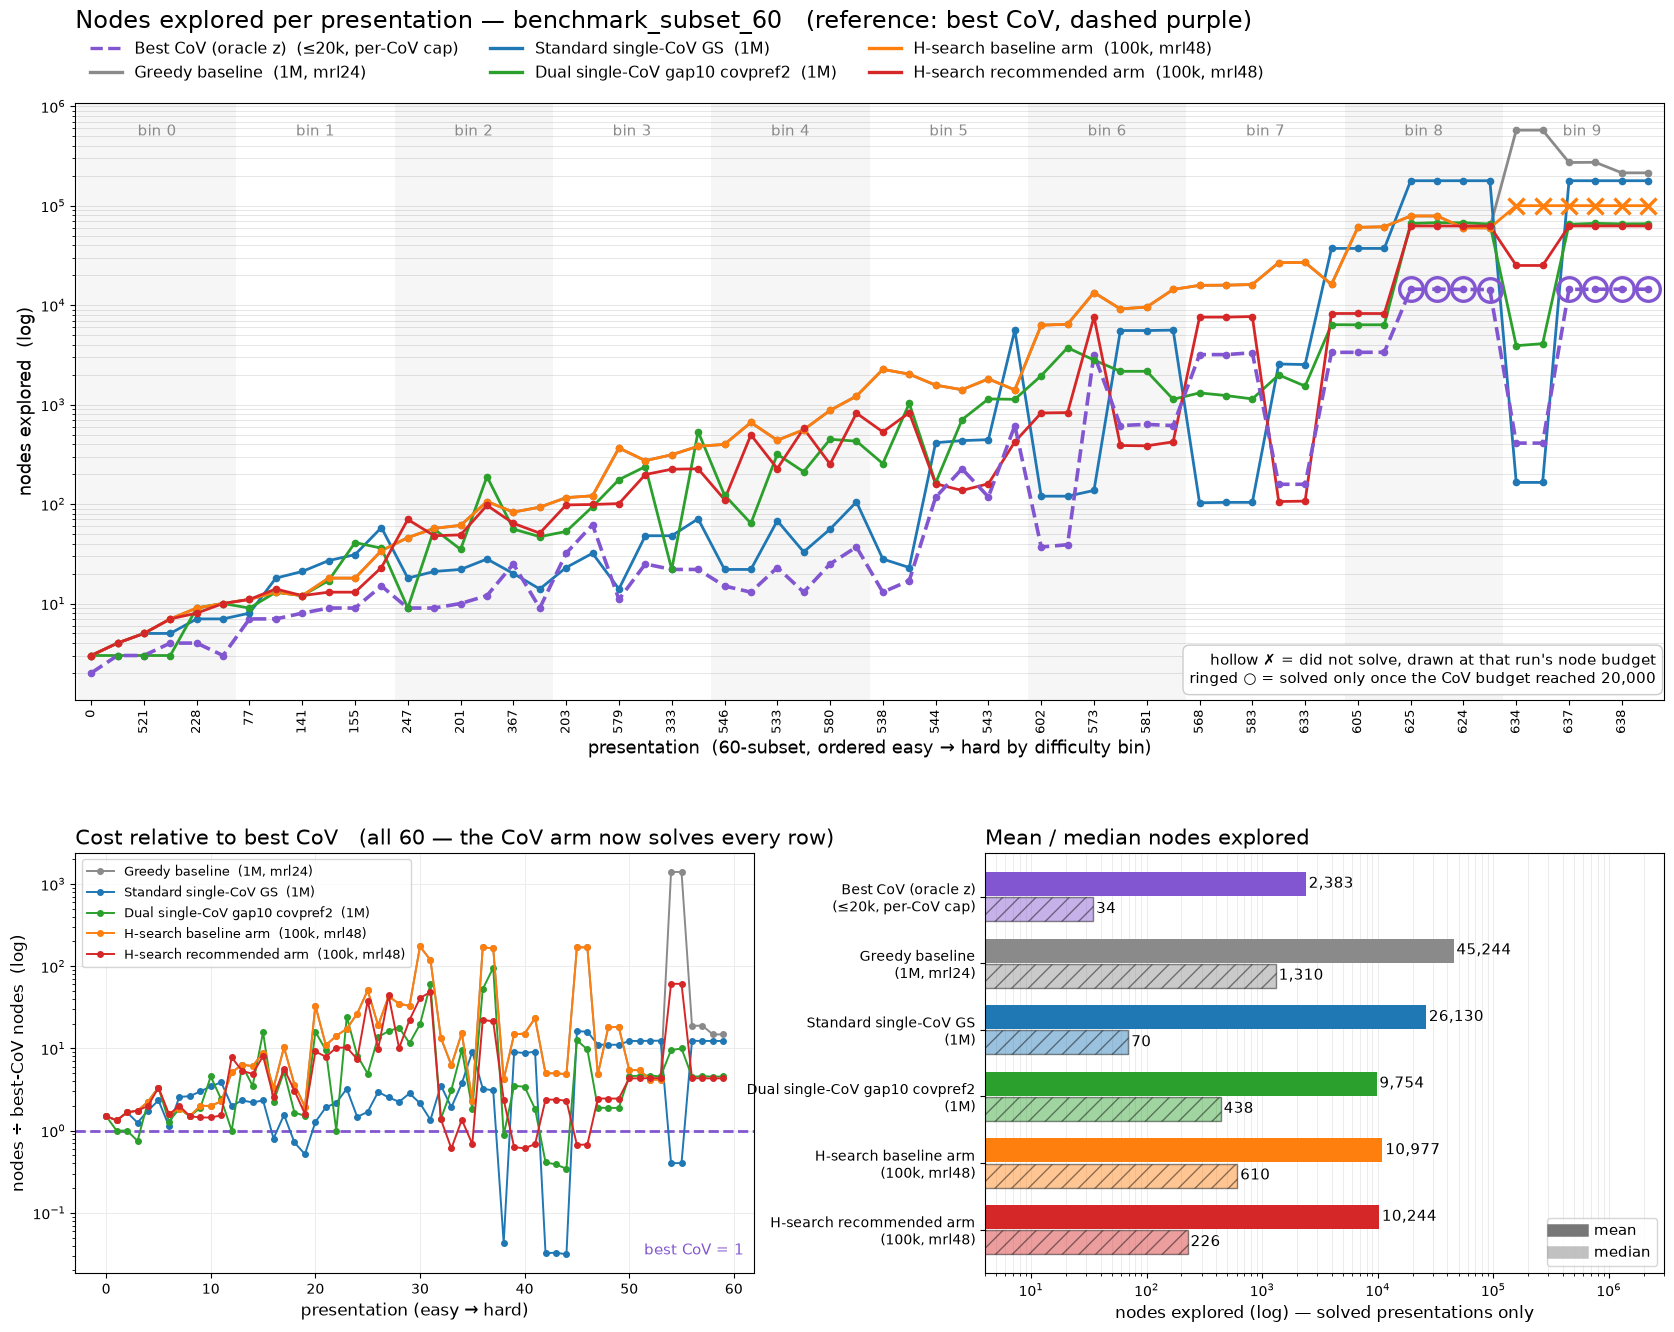
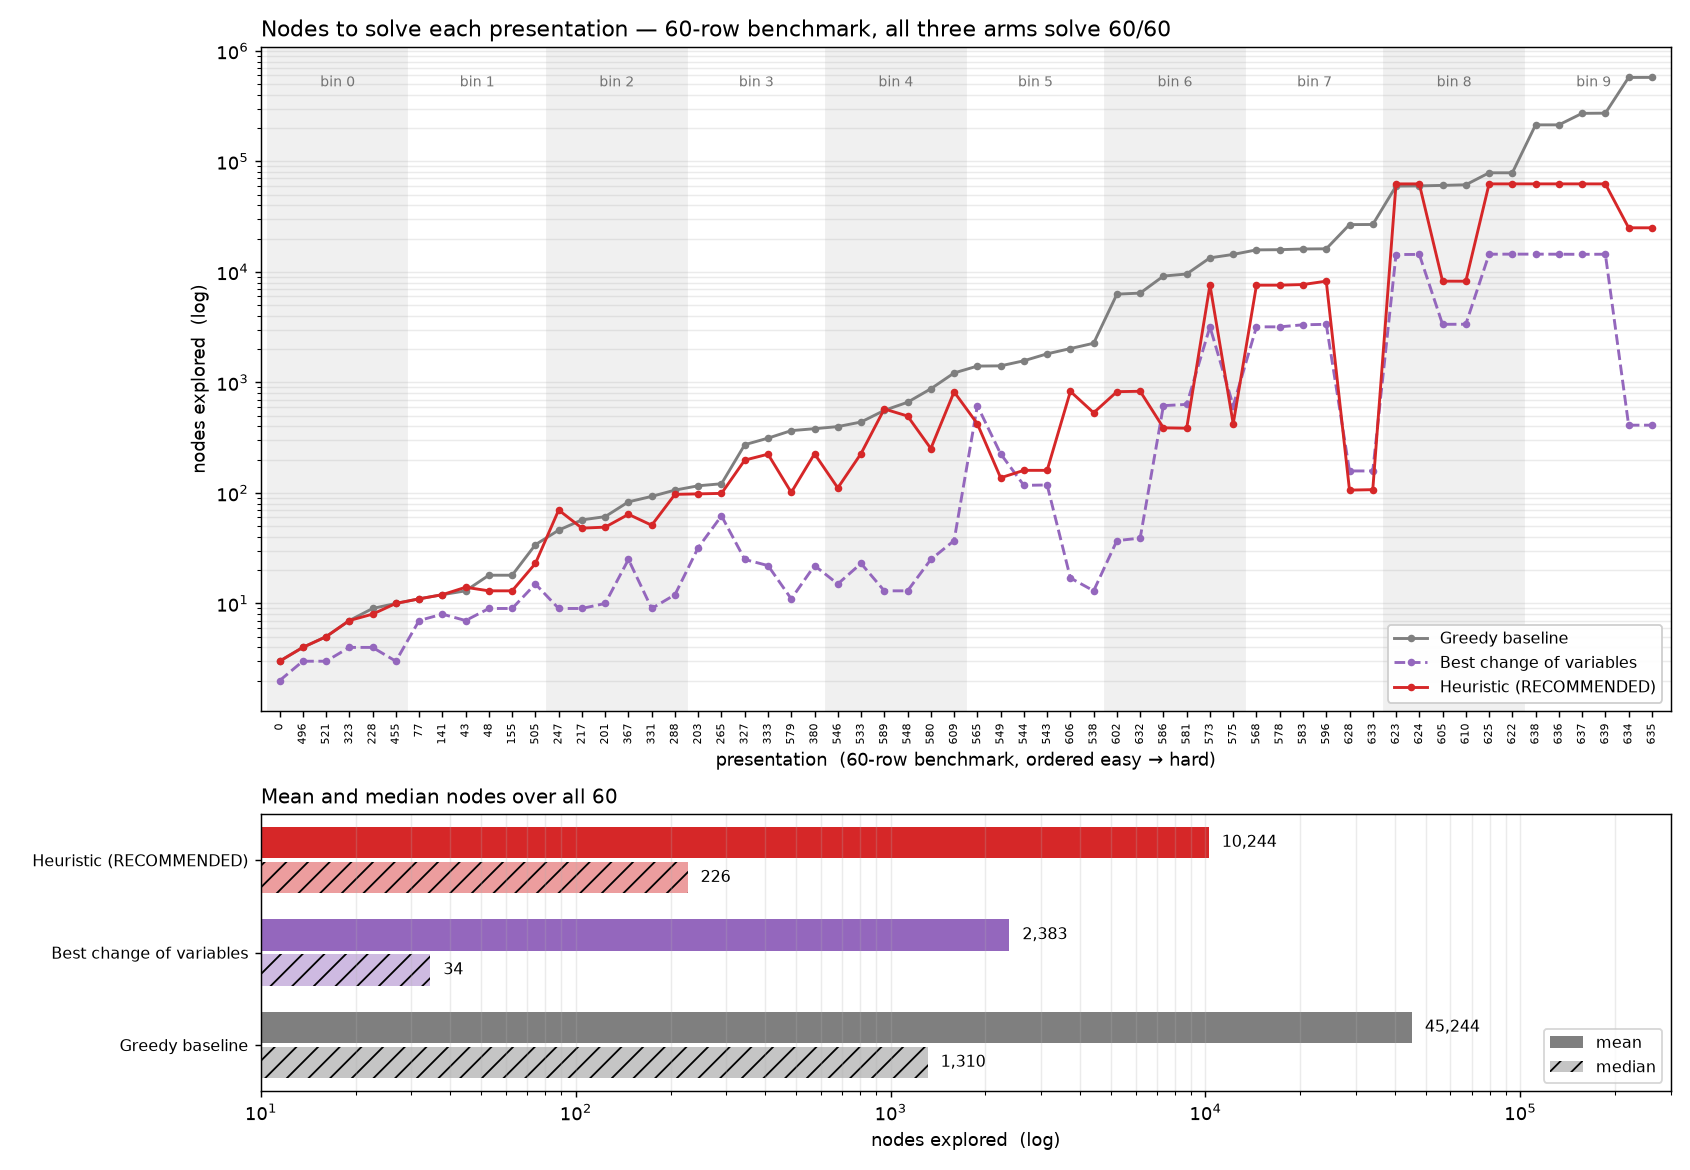
docs: three arms in the figure, one table, fewer words
The chart carried six series, four of which are CoV strategies this file never
discusses. Redrawn with the three it is about -- greedy baseline, best CoV,
RECOMMENDED -- from the committed CSV, so it can be reproduced from the repo.

Dropped the matched-10k table: the best-known table already carries the result,
and the m10k_* columns stay in the CSV for anyone wanting that read. Kept the
two caveats as one paragraph, since they are what stops a cross-column ratio
being read as a controlled speedup.

Cut the prose throughout -- HEURISTICS.md is ~1,210 words against ~1,600.

diff --git a/experiments/search/HEURISTICS.md b/experiments/search/HEURISTICS.md
@@ -1,6 +1,6 @@
 # Heap ordering for the greedy substitution search
 
-The greedy solver in [`greedy_baseline.py`](greedy_baseline.py) is a best-first search: pop the most promising open state, apply every Definition 2.1 substitution move, reduce, canonicalise, push whatever is new. "Most promising" is the only judgement it makes, and the baseline makes it with one number — **total length**, `len(r1) + len(r2)`. [`heuristics.py`](heuristics.py) replaces that number and changes nothing else.
+[`greedy_baseline.py`](greedy_baseline.py) is a best-first search: pop the most promising open state, apply every Definition 2.1 substitution move, reduce, canonicalise, push what is new. The baseline picks "most promising" by **total length**. [`heuristics.py`](heuristics.py) replaces that expression and nothing else.
 
 ## The ordering
 
@@ -8,9 +8,9 @@ The greedy solver in [`greedy_baseline.py`](greedy_baseline.py) is a best-first 
 priority(r1, r2) = L + 2.53·K + 6.418·MK + 8.458·S + 3.292·xyimb
 ```
 
-That is `RECOMMENDED` in full — five of the seventeen features, one weight vector, no length boundary. Lower pops first, so every term pushes a state **down** the queue: a state is preferred for being short (`L`), for being less tangled (`K`, `MK`), for having thicker runs of its thinner generator (`S`), and for using its two generators evenly (`xyimb`). The weights were tuned jointly, not one at a time — `S` is the weakest of the five as a solo ordering and carries the largest weight here, so a one-at-a-time search would have thrown it away.
+`RECOMMENDED` in full: five of seventeen features, one weight vector, no length boundary. Lower pops first, so each term pushes a state down the queue — preferred for being short (`L`), less tangled (`K`, `MK`), thicker runs of the thinner generator (`S`), even use of both generators (`xyimb`). Tuned jointly: `S` is the weakest of the five alone and carries the largest weight here, so one-at-a-time tuning would have dropped it.
 
-`BASELINE_CONFIG` is the control: one segment, `{"L": 1.0}`, which is plain total length and reproduces `greedy_search` exactly.
+`BASELINE_CONFIG` is the control — `{"L": 1.0}`, plain total length, reproduces `greedy_search` exactly.
 
 ## Using it
 
@@ -21,17 +21,15 @@ stats = greedy_search_h(r1, r2, node_budget=100_000, max_relator_length=24,
                         config=RECOMMENDED)     # config=None  =>  the baseline, exactly
 ```
 
-`greedy_search_h` returns **exactly** `greedy_search`'s eleven-key dict — same keys, same order, same types — so an existing call site switches ordering by passing one argument and touches nothing downstream. `phi(r1, r2)` returns the feature vector and `make_priority(config)` compiles a config into the callable the heap pushes with, for scoring or tuning without running a search.
+Returns `greedy_search`'s eleven-key dict — same keys, order, types — so a call site switches ordering with one argument. `phi(r1, r2)` gives the feature vector; `make_priority(config)` compiles a config into the heap's key function.
 
-## Results — the 60-row benchmark
+## Results — 60-row benchmark
 
-Sixty presentations, six per difficulty bin, every one of them solved by all three techniques. Per-presentation data for all 60 — nodes, path length and solved flag for each arm — is in [`../../benchmark/subsets/benchmark_subset_60_arms.csv`](../../benchmark/subsets/benchmark_subset_60_arms.csv), which is what every number below is computed from.
+Six presentations per difficulty bin. Data: [`benchmark_subset_60_arms.csv`](../../benchmark/subsets/benchmark_subset_60_arms.csv), which every number below computes from.
 
 ![Nodes explored per presentation on the 60-row benchmark](../../results/comparison/nodes_comparison_subset60.png)
 
-Top panel: nodes to solve each presentation, easy → hard left to right, log scale. Bottom left: the same divided by the best-CoV cost. Bottom right: mean and median across the subset. The figure carries two arms not discussed here — *standard single-CoV GS* and *dual single-CoV gap10* — which are intermediate change-of-variables strategies; the three that matter for this file are grey (plain greedy), purple dashed (best CoV) and red (this heuristic).
-
-**Best known cost.** What a presentation actually costs to solve, all 60 rows, all arms at 60/60:
+Best known cost per presentation:
 
 | arm | solved | median nodes | mean nodes | median path | mean path |
 |---|---|---|---|---|---|
@@ -39,62 +37,52 @@ Top panel: nodes to solve each presentation, easy → hard left to right, log sc
 | best change of variables | 60/60 | 34.5 | 2,383.1 | 16.5 | 97.05 |
 | **`RECOMMENDED`** | 60/60 | **226.5** | **10,244.0** | **38.0** | **102.73** |
 
-Both transformed arms cost less than the plain greedy *and* return shorter derivations — path length is not being traded for reach. **Read the median, not the mean:** the mean is dominated by a handful of second-hump rows, and the greedy's 45,244 mean against a 1,310 median is a 35× skew.
+Both transformed arms are cheaper *and* return shorter derivations. Read the median — the greedy's mean is a 35× skew off a few second-hump rows.
 
-Two things that table is not. **The three columns ran at different budgets and different relator caps** — greedy at 10⁶/cap 24, best CoV at ≤20,000/cap 24, the heuristic at 100,000/cap 48 — so a ratio across them is not a controlled speedup, it is three separate best-known costs side by side. And **best CoV is an oracle**: 2,383 median nodes is what the winning change of variables costs *once you already know which one wins*, and finding it cost ~2.2M nodes per presentation of sweeping. It is a lower bound on a transformed route, not a runnable procedure. The heuristic column carries no such caveat — it is one search with one fixed ordering.
-
-**Matched budget.** For a head-to-head, all three at budget 10,000 and cap 24, from the same CSV's `m10k_*` columns:
-
-| arm | solved @10k | median nodes | mean nodes | median path | mean path |
-|---|---|---|---|---|---|
-| greedy baseline | 40/60 | 197.0 | 1,205.7 | 24.0 | 36.88 |
-| best change of variables | 52/60 | 14.0 | 72.0 | 11.5 | 19.60 |
-| **`RECOMMENDED`** | **47/60** | **100.0** | **214.9** | **25.0** | **31.07** |
-
-The three arms solve different numbers of rows, so the cost columns are computed on the **40 rows all three solve** — scoring one arm's mean against another's denominator would rank the arm that solves less as the cheaper one. On those 40, the heuristic is 5.6× cheaper than the plain greedy on the mean and 2.0× on the median, at a shorter mean path.
+Two caveats. The columns ran at **different budgets and caps** (10⁶/24, ≤20k/24, 100k/48), so a cross-column ratio is not a controlled speedup. And best CoV is an **oracle**: 2,383 is what the winning `z` costs once you know which `z` wins, and finding it cost ~2.2M nodes per presentation. The heuristic is one search, one fixed ordering. The CSV's `m10k_*` columns hold all three at a matched 10,000/cap 24.
 
 ## What CI runs
 
-The suite here uses the 20-row subset at a node budget of 1,000, where the baseline solves **10/20** and `RECOMMENDED` **15/20** with nothing traded away — small enough to run on every push. Those twenty ids are `benchmark/subsets/benchmark_subset_20.json` verbatim, in file order; that file is not in this repo, so they are inlined in [`../../tests/test_greedy_heuristic.py`](../../tests/test_greedy_heuristic.py) with their provenance beside them.
+The 20-row subset at budget 1,000 — baseline **10/20**, `RECOMMENDED` **15/20**, nothing traded away. Those ids are `benchmark/subsets/benchmark_subset_20.json` verbatim, in file order; that file is not in this repo, so they are inlined in [`test_greedy_heuristic.py`](../../tests/test_greedy_heuristic.py) with their provenance.
 
-**Read 10 → 15 as a regression pin, not held-out validation:** 14 of those 20 rows are in the slice these weights were tuned on. On the 4 that were held out, the baseline solves 1 and `RECOMMENDED` solves 3.
+A **regression pin, not held-out validation**: 14 of the 20 are in the slice these weights were tuned on. On the 4 held out, baseline 1, `RECOMMENDED` 3.
 
 ## The features
 
-A relator is a **cyclic** word — the ring has no first letter. Its **blocks** are the maximal runs of a single generator read around that ring, where a letter and its inverse count as the same generator (`x` and `X` do not start a new block, so `xXxX` is one block of four). A run that wraps the seam is one block, not two: counting it twice would let a feature see where the canonicaliser happened to cut the word, which measures the tie-break rather than the presentation.
+A relator is a **cyclic** word. Its **blocks** are the maximal runs of one generator read around the ring, where a letter and its inverse are the same generator (`xXxX` is one block of four). A run wrapping the seam is one block, not two — counting it twice would read where the canonicaliser cut the word instead of the presentation.
 
-`phi(r1, r2)` computes all seventeen in one pass over the two words, cached. Every one is rotation-invariant. The five in **bold** are the ones `RECOMMENDED` uses; the rest are available to a config of your own.
+`phi(r1, r2)` computes all seventeen in one pass, cached; every one is rotation-invariant. **Bold** = used by `RECOMMENDED`.
 
 | # | name | what it measures | why it might help |
 |---|---|---|---|
-| 0 | **`L`** | total length, `len(r1) + len(r2)` | the baseline's entire ordering; the trivial state is the shortest state, so length is the obvious distance-to-go proxy |
-| 1 | `Lmin` | length of the shorter relator | the trivial state needs *both* relators at length 1; a short one is half the job already done |
-| 2 | `Lmax` | length of the longer relator | the relator that still has to come down; `L` alone cannot tell `12+12` from `2+22` |
-| 3 | `imbal` | `Lmax - Lmin` | a lopsided pair has one relator doing all the work, a different regime from two medium ones |
-| 4 | **`K`** | knot sum, `knots(r1) + knots(r2)` | the headline structural feature: knot reduction is rare and hard, so a state that bought one should be expanded before a state that merely got shorter |
-| 5 | **`MK`** | max knots over the two relators | the worse-tangled relator; a pair is only as reducible as its harder half |
-| 6 | `mK` | min knots | nonzero means *both* relators are genuinely mixed words — no pure power to work with |
-| 7 | **`S`** | smaller mean block: mean run length of the thinner generator | thin runs of one generator are where cancellation can start |
-| 8 | `Bmax` | larger mean block | the other side of `S`; long uniform runs are a different shape from fine alternation |
-| 9 | `B1` | number of length-1 blocks | isolated letters — the thin spots, where a substitution can cancel a whole block at once |
-| 10 | `Bmin` | shortest block anywhere in the pair | the single most fragile spot; `B1` counts them, this says whether any exists |
-| 11 | `nb` | total number of blocks across both relators | how chopped-up the pair is overall, unnormalised |
-| 12 | **`xyimb`** | `abs(#x − #y) / L` | generator imbalance, scale-free: a pair leaning on one generator is closer to a pure power |
-| 13 | `Bmaxrun` | longest single block anywhere | `Bmax` is the larger *mean*, which hides a spike; this sees the spike |
-| 14 | `Bspread` | longest block − shortest block | how uneven the blocking is; a uniform and a spiky pair can share every mean above |
-| 15 | `ratio` | `Lmin / Lmax` | imbalance as a ratio, where `imbal` is the raw difference — the two rank differently at different scales |
+| 0 | **`L`** | total length, `len(r1) + len(r2)` | the baseline's entire ordering; the trivial state is the shortest, so length is the obvious distance-to-go proxy |
+| 1 | `Lmin` | length of the shorter relator | the trivial state needs *both* at length 1; a short one is half the job done |
+| 2 | `Lmax` | length of the longer relator | what still has to come down; `L` cannot tell `12+12` from `2+22` |
+| 3 | `imbal` | `Lmax - Lmin` | a lopsided pair has one relator doing all the work |
+| 4 | **`K`** | knot sum, `knots(r1) + knots(r2)` | knot reduction is rare and hard, so a state that bought one should outrank one that merely got shorter |
+| 5 | **`MK`** | max knots over the two relators | a pair is only as reducible as its harder half |
+| 6 | `mK` | min knots | nonzero means *both* relators are mixed words — no pure power to work with |
+| 7 | **`S`** | smaller mean block: mean run length of the thinner generator | thin runs are where cancellation can start |
+| 8 | `Bmax` | larger mean block | long uniform runs are a different shape from fine alternation |
+| 9 | `B1` | number of length-1 blocks | isolated letters — where a substitution can cancel a whole block |
+| 10 | `Bmin` | shortest block in the pair | the most fragile spot; `B1` counts them, this says whether any exists |
+| 11 | `nb` | total blocks across both relators | how chopped-up the pair is, unnormalised |
+| 12 | **`xyimb`** | `abs(#x − #y) / L` | generator imbalance, scale-free: leaning on one generator is closer to a pure power |
+| 13 | `Bmaxrun` | longest single block | `Bmax` is a *mean* and hides a spike; this sees it |
+| 14 | `Bspread` | longest − shortest block | how uneven the blocking is; a uniform and a spiky pair share every mean above |
+| 15 | `ratio` | `Lmin / Lmax` | imbalance as a ratio — ranks differently from `imbal` at different scales |
 | 16 | `density` | `nb / L` | blocks per letter: how finely the pair alternates, scale-free |
 
-Knots are `0` for a **pure power** (a relator in which one generator does not appear at all) — there is nothing to be tangled with. Otherwise a relator's knot count is `max(#x-blocks, #y-blocks)`.
+Knots are `0` for a **pure power** (one generator absent) — nothing to be tangled with. Otherwise `max(#x-blocks, #y-blocks)`.
 
 ## Config shape
 
-A config is a list of length-keyed **segments**, each a weight vector: `{"segments": [{"upto": <ceiling>, "w": {feature: weight}}, ...]}`. Segments are tried in order and the first whose `upto` covers the state's total length wins; the last should carry `"upto": None`. Both configs here use a single segment — multi-segment configs switch weight vectors at a length boundary, and the schema keeps that open because the research harness this was ported from speaks the same format.
+`{"segments": [{"upto": <ceiling>, "w": {feature: weight}}, ...]}`. Segments are tried in order; the first whose `upto` covers the state's total length wins, and the last should carry `"upto": None`. Both configs here use one segment — multi-segment configs switch weights at a length boundary, and the schema keeps that open because the research harness speaks the same format.
 
-The heap key is `(segment_index, score)`. The leading index makes every state below a boundary outrank every state above it, and keeps two segments' scores — which sit on unrelated scales — from ever being compared.
+The heap key is `(segment_index, score)`. The leading index makes every state below a boundary outrank every state above it, and stops two segments' scores — on unrelated scales — from being compared.
 
-## Two invariants, if you change anything here
+## Two invariants
 
-**The control gate.** `config=None` must reproduce `greedy_search` *pop for pop* — the same `solved` flag **and** the same `nodes_explored` on every presentation. Scoring the same is not being the same: a change to the reduction, the cap or the heap tie-break could still tie on a benchmark, and every reported delta would then be measuring that change instead of the ordering. It also keeps the baseline inside the config space — a tuning space that cannot express "no change" will always appear to beat its control.
+**The control gate.** `config=None` must reproduce `greedy_search` *pop for pop* — same `solved` flag **and** same `nodes_explored`. Scoring the same is not being the same: a changed reduction, cap or tie-break could still tie on a benchmark, and every reported delta would then measure that change instead of the ordering. It also keeps the baseline inside the config space — a space that cannot express "no change" always appears to beat its control.
 
-**The priority must be a pure function of the state.** The visited set dedups canonical states on first discovery and there is no decrease-key, so a state's priority is fixed by whichever path reached it first. Any term reading `depth` — or the parent, e.g. "did this move drop a knot?" — would make pop order depend on discovery order and stop being reproducible. A knot *reduction* is already carried by the **absolute** knot count.
+**The priority must be a pure function of the state.** The visited set dedups on first discovery and there is no decrease-key, so a state's priority is fixed by whichever path reached it first. Any term reading `depth` or the parent ("did this move drop a knot?") would make pop order depend on discovery order. A knot *reduction* is already carried by the **absolute** knot count.
